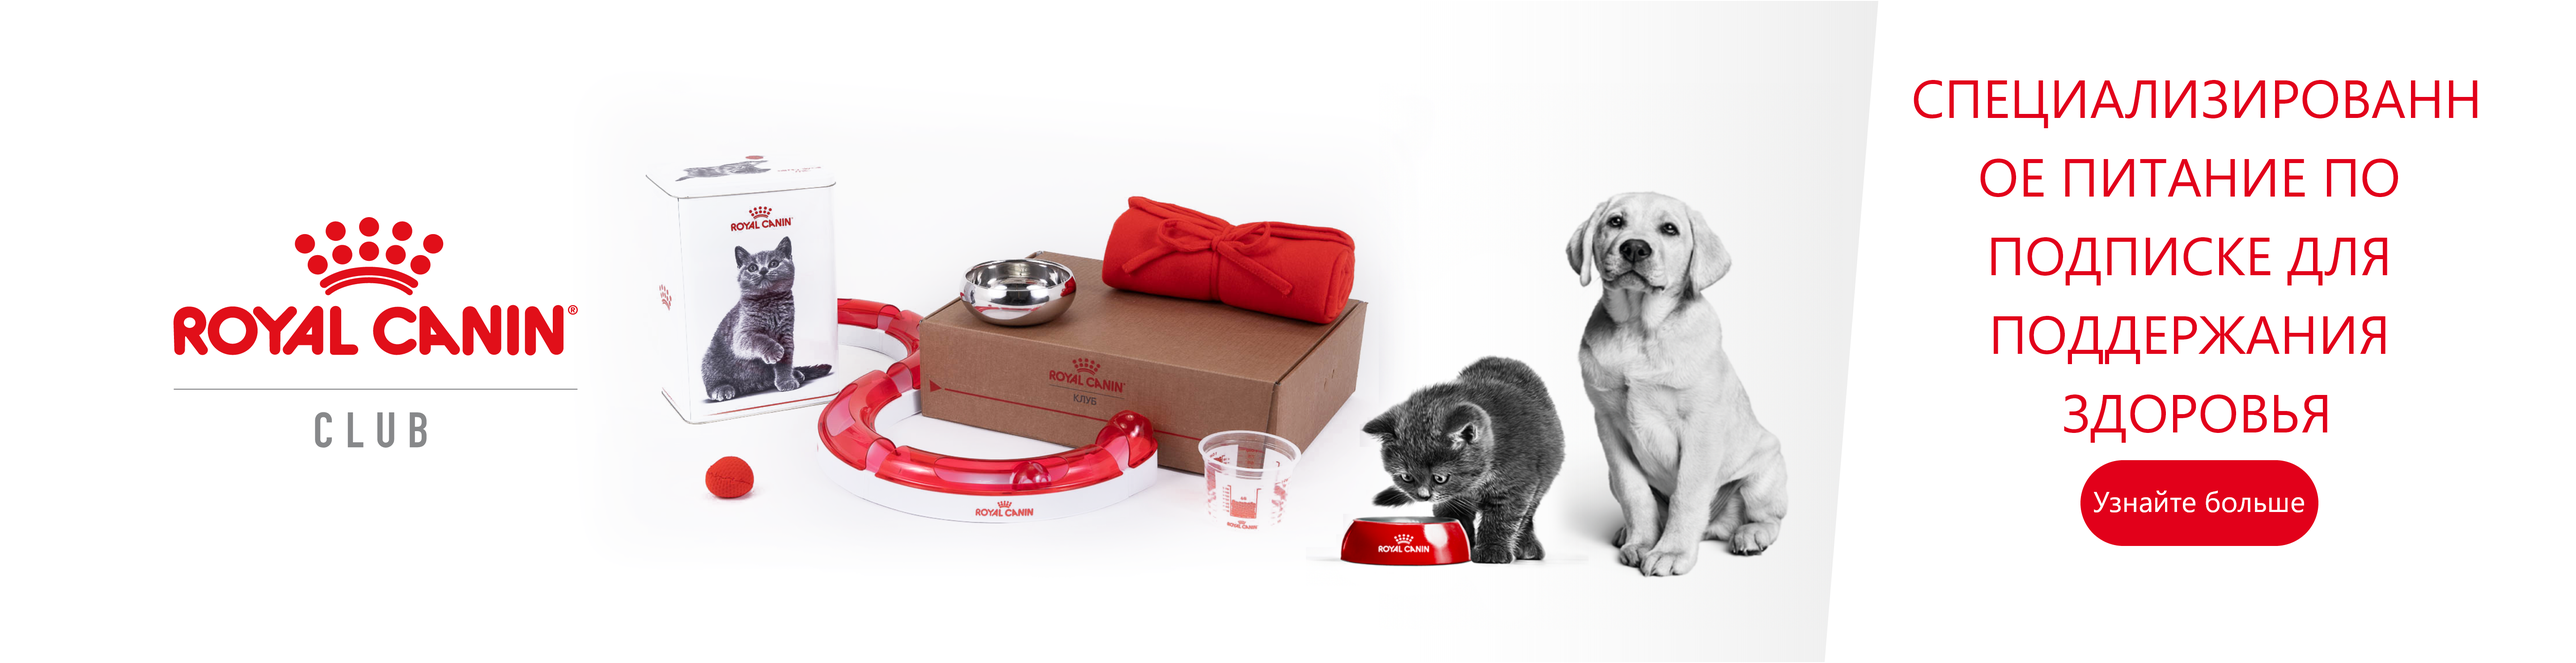
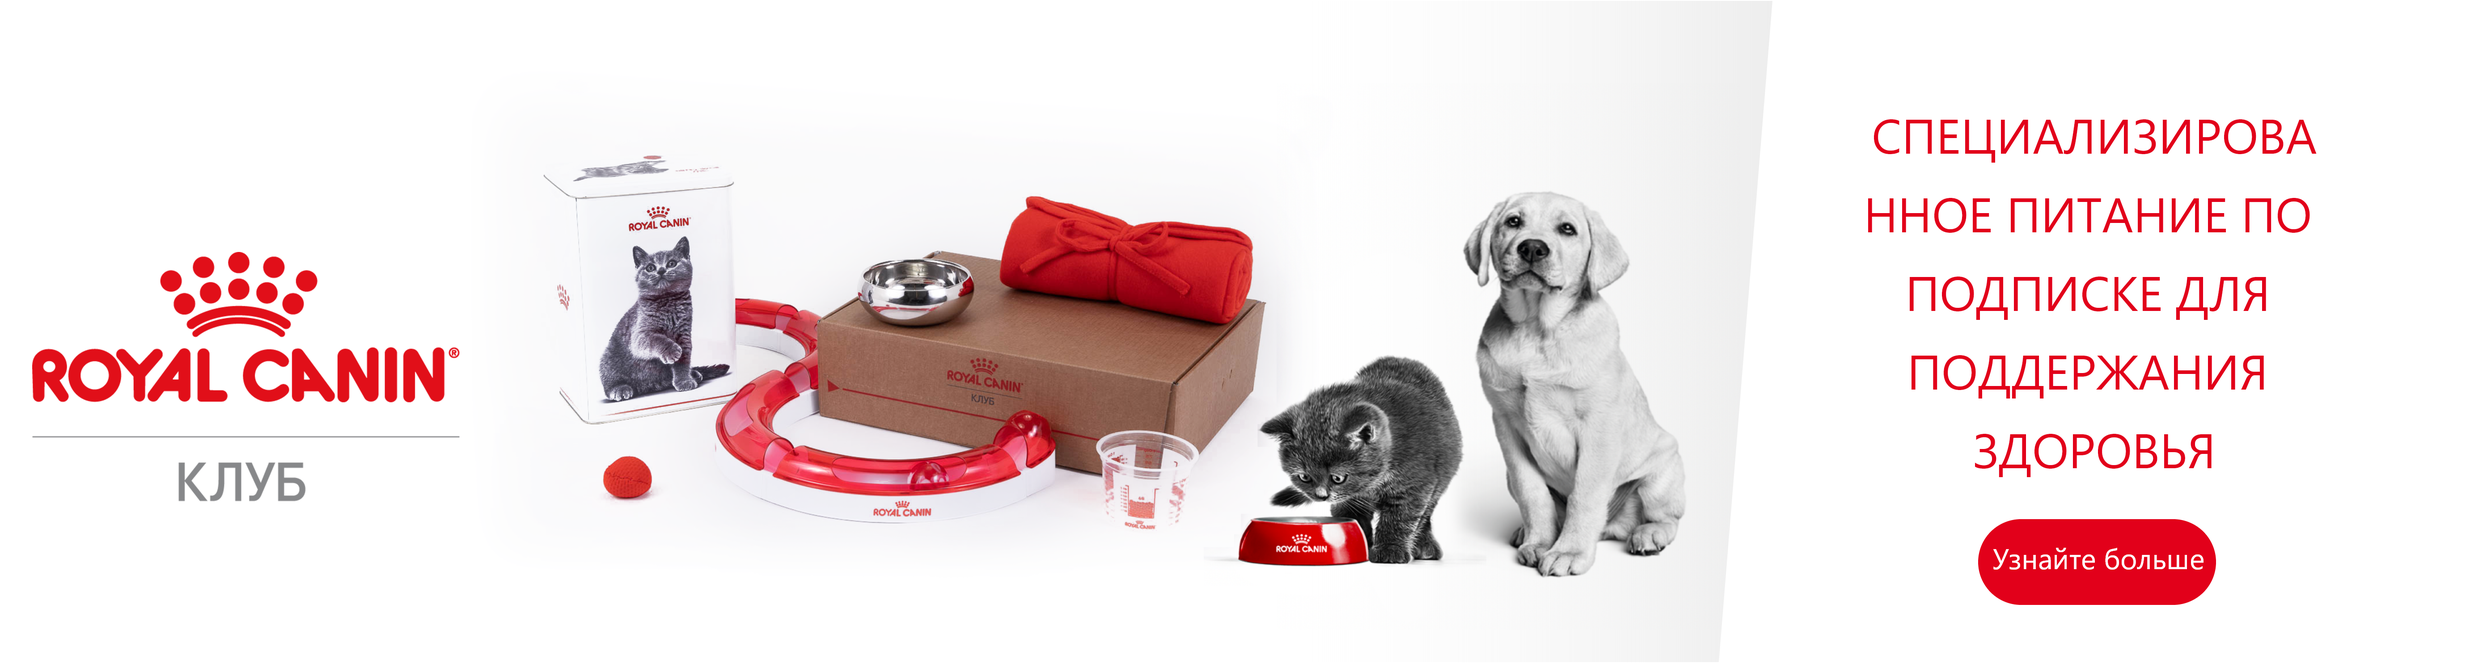
Ru-LandingPage-Bug-fixed

Changed region(s): [[0.0, 0.248, 0.7161, 0.8679], [0.7473, 0.124, 0.9652, 0.9299]]

diff --git a/src/views/ClubLandingPage/SubscriptionBenefits.js b/src/views/ClubLandingPage/SubscriptionBenefits.js
@@ -186,7 +186,7 @@ export function SubscriptionBenefits() {
       ),
       ru: (
         <>
-          <div className="col-12 col-md-6 col-xxl-2 d-flex px-0 pl-md-0 pr-md-2  pr-xxl-3 pl-xxl-0 justify-content-center">
+          <div className="col-12 col-md-1 col-xxl-2 d-flex px-0 pl-md-0 pr-md-2  pr-xxl-3 pl-xxl-0 justify-content-center ">
             <div className=" centered-icon-list__icon justify-content-start justify-content-xxl-center align-items-center w-100 value-proposition__content">
               <div style={{ display: 'flex', justifyContent: 'center' }}>
                 <LazyLoad height={200}>
@@ -206,7 +206,7 @@ export function SubscriptionBenefits() {
               </div>
             </div>
           </div>
-          <div className="col-12 col-md-6 col-xxl-2 d-flex px-0 pl-md-0 pr-md-2  pr-xxl-3 pl-xxl-0 justify-content-center">
+          <div className="col-12 col-md-1 col-xxl-2 d-flex px-0 pl-md-0 pr-md-2  pr-xxl-3 pl-xxl-0 justify-content-center">
             <div className=" centered-icon-list__icon justify-content-start justify-content-xxl-center align-items-center w-100 value-proposition__content">
               <div style={{ display: 'flex', justifyContent: 'center' }}>
                 <LazyLoad height={200}>
@@ -226,7 +226,7 @@ export function SubscriptionBenefits() {
               </div>
             </div>
           </div>
-          <div className="col-12 col-md-6 col-xxl-2 d-flex px-0 pl-md-0 pr-md-2  pr-xxl-3 pl-xxl-0 justify-content-center">
+          <div className="col-12 col-md-1 col-xxl-2 d-flex px-0 pl-md-0 pr-md-2  pr-xxl-3 pl-xxl-0 justify-content-center">
             <div className=" centered-icon-list__icon justify-content-start justify-content-xxl-center align-items-center w-100 value-proposition__content">
               <div style={{ display: 'flex', justifyContent: 'center' }}>
                 <LazyLoad height={200}>
@@ -246,7 +246,7 @@ export function SubscriptionBenefits() {
               </div>
             </div>
           </div>
-          <div className="col-12 col-md-6 col-xxl-2 d-flex px-0 pl-md-0 pr-md-2  pr-xxl-3 pl-xxl-0 justify-content-center">
+          <div className="col-12 col-md-1 col-xxl-2 d-flex px-0 pl-md-0 pr-md-2  pr-xxl-3 pl-xxl-0 justify-content-center">
             <div className=" centered-icon-list__icon justify-content-start justify-content-xxl-center align-items-center w-100 value-proposition__content">
               <div style={{ display: 'flex', justifyContent: 'center' }}>
                 <LazyLoad height={200}>
@@ -266,7 +266,7 @@ export function SubscriptionBenefits() {
               </div>
             </div>
           </div>
-          <div className="col-12 col-md-6 col-xxl-2 d-flex px-0 pl-md-0 pr-md-2  pr-xxl-3 pl-xxl-0 justify-content-center">
+          <div className="col-12 col-md-1 col-xxl-2 d-flex px-0 pl-md-0 pr-md-2  pr-xxl-3 pl-xxl-0 justify-content-center">
             <div className=" centered-icon-list__icon justify-content-start justify-content-xxl-center align-items-center w-100 value-proposition__content">
               <div style={{ display: 'flex', justifyContent: 'center' }}>
                 <LazyLoad height={200}>
@@ -286,28 +286,26 @@ export function SubscriptionBenefits() {
               </div>
             </div>
           </div>
-          {process.env.REACT_APP_LANG === 'ru' ? (
-            <div className="col-12 col-md-6 col-xxl-2 d-flex px-0 pl-md-0 pr-md-2  pr-xxl-3 pl-xxl-0 justify-content-center">
-              <div className=" centered-icon-list__icon justify-content-start justify-content-xxl-center align-items-center w-100 value-proposition__content">
-                <div style={{ display: 'flex', justifyContent: 'center' }}>
-                  <LazyLoad height={200}>
-                    <img
-                      className="value-proposition__img lazyloaded"
-                      style={{ width: '100px', height: '100px' }}
-                      alt="Два бесплатных ветеринарных осмотра в клинике"
-                      title="ideal formula"
-                      src={iconsix}
-                    />
-                  </LazyLoad>
-                </div>
-                <div className="pl-3 d-flex align-items-center value-proposition__text">
-                  <p className="rc-margin-bottom--none rc-intro">
-                    <FormattedMessage id="club.subscription.icon5" />
-                  </p>
-                </div>
+          <div className="col-12 col-md-1 col-xxl-2 d-flex px-0 pl-md-0 pr-md-2  pr-xxl-3 pl-xxl-0 justify-content-center">
+            <div className=" centered-icon-list__icon justify-content-start justify-content-xxl-center align-items-center w-100 value-proposition__content">
+              <div style={{ display: 'flex', justifyContent: 'center' }}>
+                <LazyLoad height={200}>
+                  <img
+                    className="value-proposition__img lazyloaded"
+                    style={{ width: '100px', height: '100px' }}
+                    alt="Два бесплатных ветеринарных осмотра в клинике"
+                    title="ideal formula"
+                    src={iconsix}
+                  />
+                </LazyLoad>
+              </div>
+              <div className="pl-3 d-flex align-items-center value-proposition__text">
+                <p className="rc-margin-bottom--none rc-intro">
+                  <FormattedMessage id="club.subscription.icon5" />
+                </p>
               </div>
             </div>
-          ) : null}
+          </div>
         </>
       ),
       tr: (

diff --git a/src/components/HelpComponents/HelpComponents.js b/src/components/HelpComponents/HelpComponents.js
@@ -6,6 +6,7 @@ import pictofaq from './img/pictofaq.png';
 import { FormattedMessage, injectIntl } from 'react-intl';
 import LazyLoad from 'react-lazyload';
 import './index.css';
+import { Link } from 'react-router-dom';
 
 const HelpComponents = (props) => {
   return (
@@ -17,6 +18,11 @@ const HelpComponents = (props) => {
               <h3 className="rc-beta">
                 <FormattedMessage id="club.wheretohelp" />
               </h3>
+              <p>
+                <span>
+                  <FormattedMessage id="club.wheretohelp.subtitile" />
+                </span>
+              </p>
               <div className="experience-component experience-layouts-1to2columnRatio">
                 <div className="rc-max-width--xl rc-padding-x--sm rc-padding-x--md--mobile rc-margin-y--sm rc-margin-y--lg--mobile">
                   <div className=" rc-layout-container rc-five-column rc-match-heights rc-reverse-layout-mobile text-center text-md-left">
@@ -107,9 +113,11 @@ const HelpComponents = (props) => {
                                   {/*}*/}
                                   <FormattedMessage id="club.wheretohelp.card.email.description" />
                                 </p>
-                                <p>
-                                  <FormattedMessage id="club.wheretohelp.card.email.send" />
-                                </p>
+                                <Link to="/help/contact">
+                                  <p style={{ textDecoration: 'underline' }}>
+                                    <FormattedMessage id="club.wheretohelp.card.email.send" />
+                                  </p>
+                                </Link>
                                 <div className="rc-margin-top--xs">
                                   <p
                                     style={{ color: '#00BCA3' }}

diff --git a/src/components/CommentCarousel/index.js b/src/components/CommentCarousel/index.js
@@ -2,6 +2,10 @@ import React from 'react';
 import Rate from '../Rate';
 import CommentImg from './img/Custmersay.PNG';
 import { FormattedMessage } from 'react-intl';
+import CommentOne from './img/CommentOne.png';
+import CommentTwo from './img/CommentTwo.png';
+import CommentThree from './img/CommentThree.png';
+import CommentFour from './img/CommentFour.png';
 
 const CommentCarousel = () => {
   return (
@@ -249,22 +253,22 @@ const CommentCarousel = () => {
                 <div className="rc-carousel__card-gal">
                   <article className="rc-card rc-card--b">
                     <picture className="rc-card__image">
-                      <img src={CommentImg} alt="alt text" />
+                      <img src={CommentOne} alt="alt text" />
                     </picture>
                   </article>
                   <article className="rc-card rc-card--b">
                     <picture className="rc-card__image">
-                      <img src={CommentImg} alt="alt text" />
+                      <img src={CommentTwo} alt="alt text" />
                     </picture>
                   </article>
                   <article className="rc-card rc-card--b">
                     <picture className="rc-card__image">
-                      <img src={CommentImg} alt="alt text" />
+                      <img src={CommentThree} alt="alt text" />
                     </picture>
                   </article>
                   <article className="rc-card rc-card--b">
                     <picture className="rc-card__image">
-                      <img src={CommentImg} alt="alt text" />
+                      <img src={CommentFour} alt="alt text" />
                     </picture>
                   </article>
                 </div>

diff --git a/src/lang/ru_RU.js b/src/lang/ru_RU.js
@@ -1033,10 +1033,12 @@ const ru_RU = {
   'club.joinsubscription.button': 'Начать',
   'club.loyal.customers': 'Наши постоянные клиенты',
   'club.wheretohelp': 'Есть вопросы?',
+  'club.wheretohelp.subtitile':
+    'Нужна помощь? Наша команда готова ответить на Ваши вопросы и помочь с выбором и покупкой. Вы можете связаться с нами, используя один из следующих способов:',
   'club.wheretohelp.card.callus.title': 'Позвоните нам',
   'club.wheretohelp.card.callus.description':
     'Наши эксперты рады Вам помочь ежедневно с 9.00 до 18.00',
-  'club.wheretohelp.card.callus.number': '0874 657 890',
+  'club.wheretohelp.card.callus.number': '8-800-200-37-35',
   'club.wheretohelp.card.email.title': 'Напишите нам e-mail',
   'club.wheretohelp.card.email.description':
     'Мы сделаем все возможное, чтобы ответить Вам как можно скорее, в течение 12 часов',

diff --git a/src/views/ClubLandingPage/JoinToday.js b/src/views/ClubLandingPage/JoinToday.js
@@ -41,7 +41,16 @@ const JoinToday = (props) => {
                       <div
                         style={{ display: 'flex', justifyContent: 'center' }}
                       >
-                        <Logo />
+                        {process.env.REACT_APP_LANG == 'ru' ? (
+                          <img
+                            style={{ width: '200px' }}
+                            src="https://www.shop.royal-canin.ru/dw/image/v2/BCMK_PRD/on/demandware.static/-/Sites-RU-Library/default/dw8a336819/HNC/Club_Logo_RU@2x(1).png?sw=300&amp;sh=175&amp;sm=fit&amp;cx=0&amp;cy=0&amp;cw=751&amp;ch=438&amp;sfrm=png"
+                            className="rc-logo-svg"
+                            alt="Логотип ROYAL CANIN® КЛУБА"
+                          />
+                        ) : (
+                          <Logo />
+                        )}
                       </div>
                       <br />
                       <div className="rc-gamma text-center">

diff --git a/src/views/ClubLandingPage/HowItWorks.js b/src/views/ClubLandingPage/HowItWorks.js
@@ -73,7 +73,7 @@ const HowItWorks = (props) => {
                         </h5>
                       </p>
                     </div>
-                    <LazyLoad height={180}>
+                    <LazyLoad height={180} style={{ marginTop: '22px' }}>
                       <img
                         className="w-90 lazyloaded"
                         src={howitworck2}
@@ -113,7 +113,7 @@ const HowItWorks = (props) => {
                         </h5>
                       </p>
                     </div>
-                    <LazyLoad height={180}>
+                    <LazyLoad height={180} style={{ marginTop: '22px' }}>
                       <img
                         className="w-90 lazyloaded"
                         src={howitworck3}

diff --git a/src/views/ClubLandingPage/ClubHeroCarousel/index.js b/src/views/ClubLandingPage/ClubHeroCarousel/index.js
@@ -350,6 +350,12 @@ class ClubHeroCarousel extends React.Component {
       }
     });
   }
+  //点击滑到HowItWorks
+  scrollToHowItWorks = () => {
+    const widegt = document.querySelector('');
+    widegt && widegt.scrollIntoView();
+  };
+
   render() {
     const { banner } = this.state;
     const settings = {
